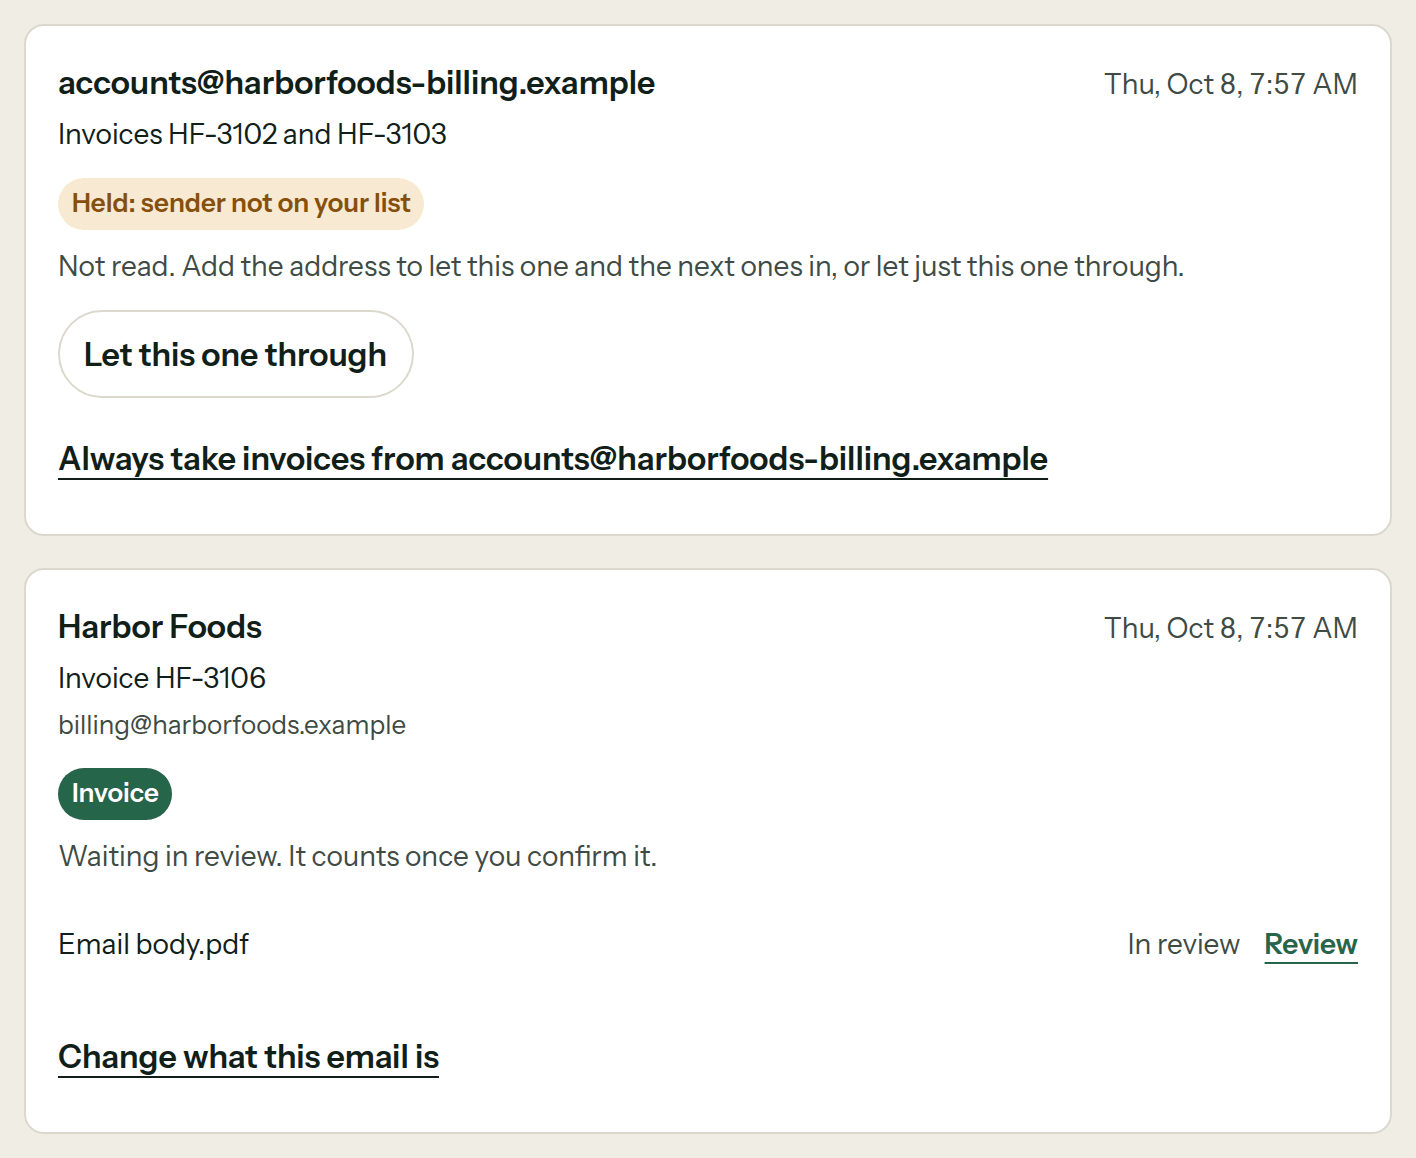
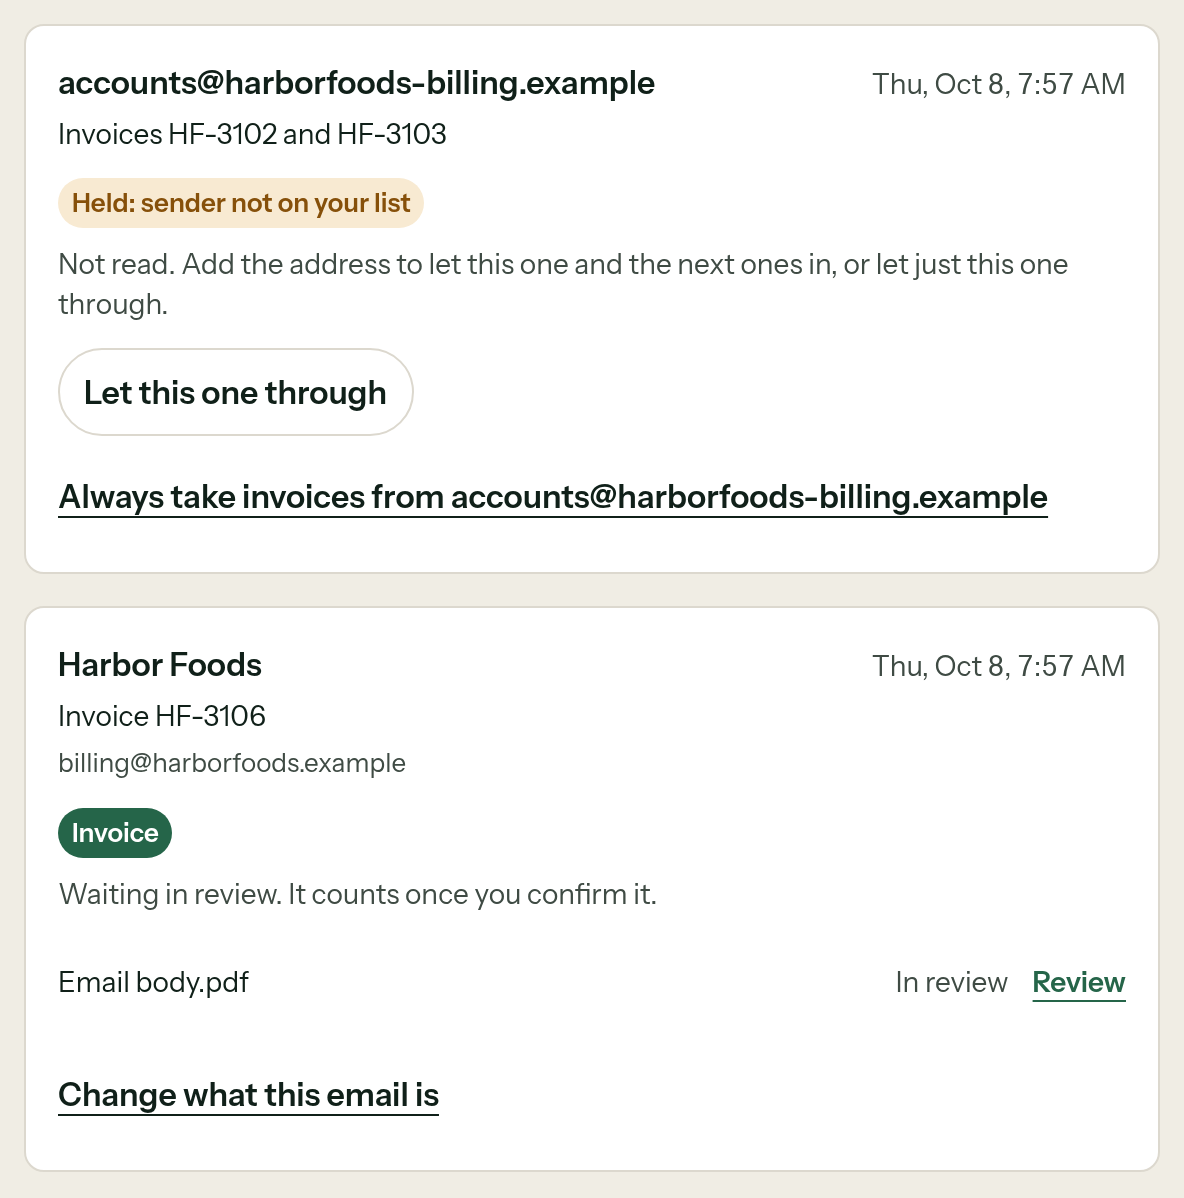
fix(proof): the homepage invoice inbox shot at 600, like the ordering card
At 780 its text drew at 10px in the card and the card stood half the
ordering card's height; at 600 both read at 1:1 and stand near level.

Changed region(s): [[0.0, 0.0311, 1.0, 0.9637]]

diff --git a/src/lib/home.ts b/src/lib/home.ts
@@ -334,7 +334,7 @@ export const frontOfHouse = [
 			shot(
 				'invoice-inbox',
 				'Invoice inbox: invoices HF-3102 and HF-3103 held, not read, because the address they came from is not on your list, with Let this one through; and Harbor Foods invoice HF-3106 from its approved address, waiting in review, counting once you confirm it.',
-				[1416, 1158]
+				[1184, 1198]
 			),
 			[780, 1254]
 		)
